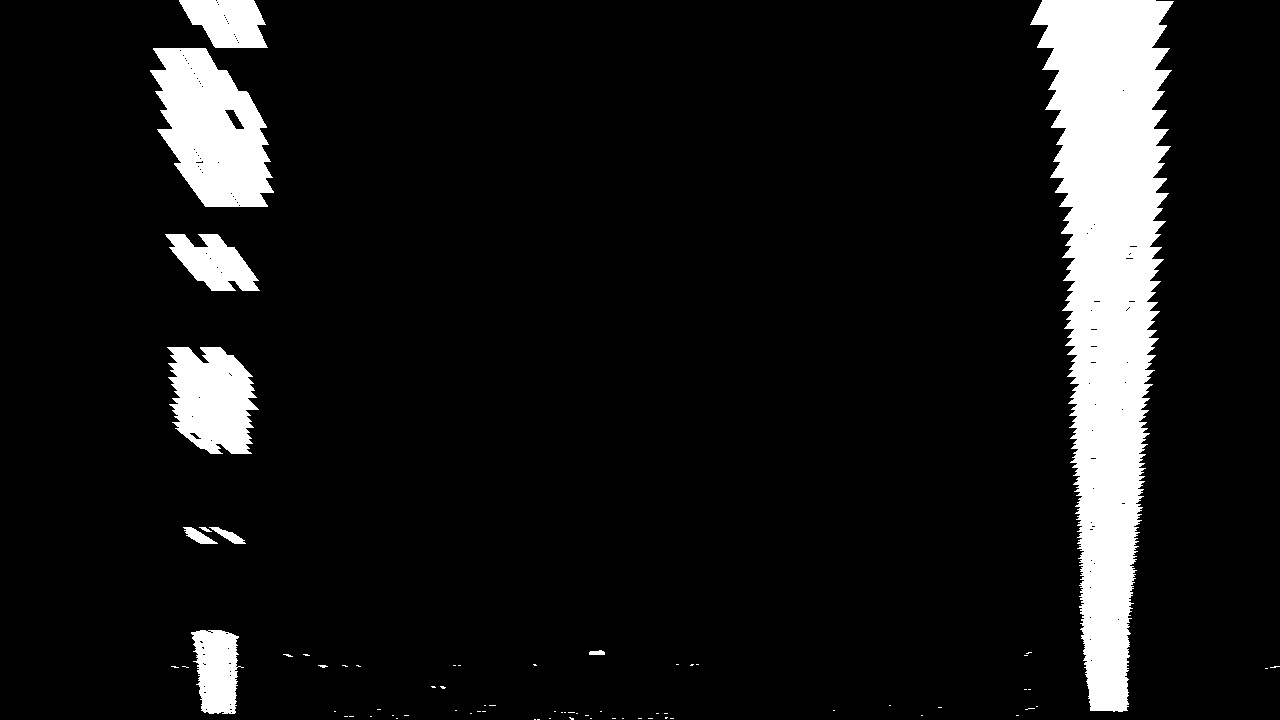
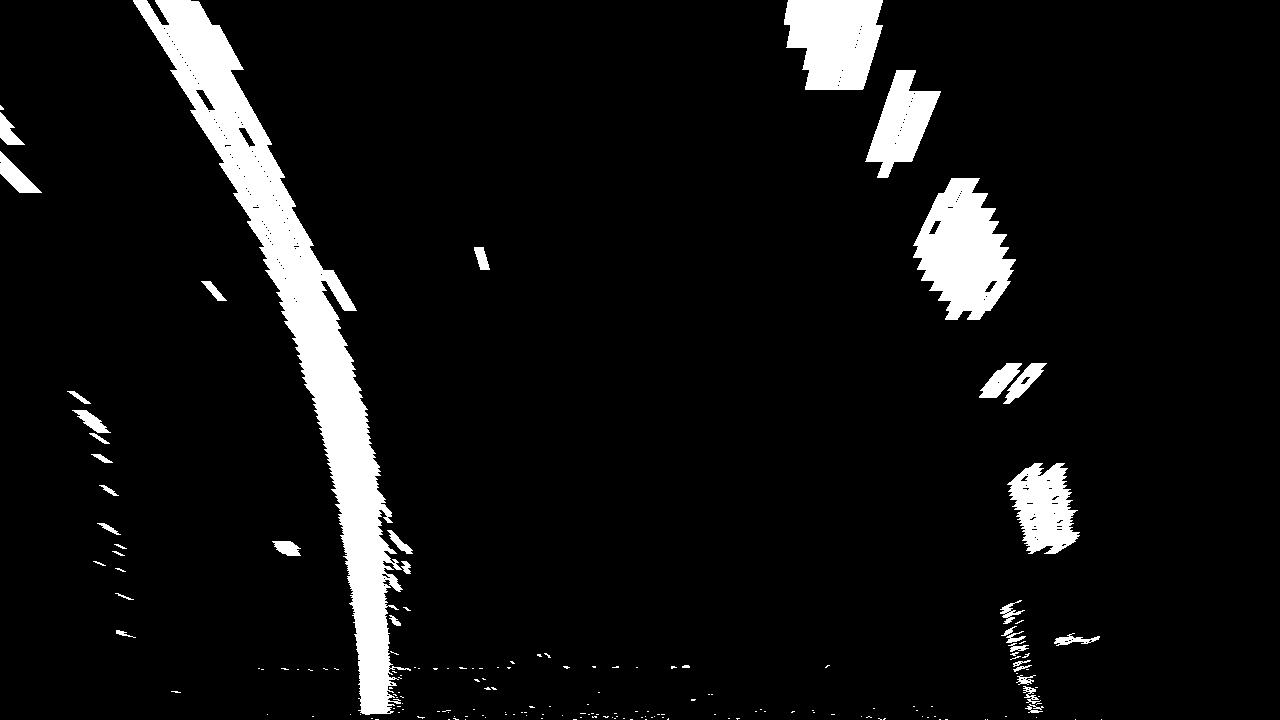
add initial curvature finding script

diff --git a/finding_curvature.py b/finding_curvature.py
@@ -1,0 +1,88 @@
+import numpy as np
+import matplotlib.pyplot as plt
+import matplotlib.image as mpimg
+import glob
+import cv2
+
+# Read in a thresholded image
+warped = mpimg.imread('output_images/perspective_transform_applied.jpg')
+# window settings
+window_width = 50
+window_height = 80 # Break image into 9 vertical layers since image height is 720
+margin = 100 # How much to slide left and right for searching
+
+def window_mask(width, height, img_ref, center,level):
+    output = np.zeros_like(img_ref)
+    output[int(img_ref.shape[0]-(level+1)*height):int(img_ref.shape[0]-level*height),max(0,int(center-width/2)):min(int(center+width/2),img_ref.shape[1])] = 1
+    return output
+
+def find_window_centroids(image, window_width, window_height, margin):
+    
+    window_centroids = [] # Store the (left,right) window centroid positions per level
+    window = np.ones(window_width) # Create our window template that we will use for convolutions
+    
+    # First find the two starting positions for the left and right lane by using np.sum to get the vertical image slice
+    # and then np.convolve the vertical image slice with the window template
+    
+    # Sum quarter bottom of image to get slice, could use a different ratio
+    l_sum = np.sum(warped[int(3*warped.shape[0]/4):,:int(warped.shape[1]/2)], axis=0)
+    l_center = np.argmax(np.convolve(window,l_sum))-window_width/2
+    r_sum = np.sum(warped[int(3*warped.shape[0]/4):,int(warped.shape[1]/2):], axis=0)
+    r_center = np.argmax(np.convolve(window,r_sum))-window_width/2+int(warped.shape[1]/2)
+    
+    # Add what we found for the first layer
+    window_centroids.append((l_center,r_center))
+    
+    # Go through each layer looking for max pixel locations
+    for level in range(1,(int)(warped.shape[0]/window_height)):
+        # convolve the window into the vertical slice of the image
+        image_layer = np.sum(warped[int(warped.shape[0]-(level+1)*window_height):int(warped.shape[0]-level*window_height),:], axis=0)
+        conv_signal = np.convolve(window, image_layer)
+        # Find the best left centroid by using past left center as a reference
+        # Use window_width/2 as offset because convolution signal reference is at right side of window, not center of window
+        offset = window_width/2
+        l_min_index = int(max(l_center+offset-margin,0))
+        l_max_index = int(min(l_center+offset+margin,warped.shape[1]))
+        l_center = np.argmax(conv_signal[l_min_index:l_max_index])+l_min_index-offset
+        # Find the best right centroid by using past right center as a reference
+        r_min_index = int(max(r_center+offset-margin,0))
+        r_max_index = int(min(r_center+offset+margin,warped.shape[1]))
+        r_center = np.argmax(conv_signal[r_min_index:r_max_index])+r_min_index-offset
+        # Add what we found for that layer
+        window_centroids.append((l_center,r_center))
+
+    return window_centroids
+
+window_centroids = find_window_centroids(warped, window_width, window_height, margin)
+
+# If we found any window centers
+if len(window_centroids) > 0:
+    
+    # Points used to draw all the left and right windows
+    l_points = np.zeros_like(warped)
+    r_points = np.zeros_like(warped)
+    
+    # Go through each level and draw the windows
+    for level in range(0,len(window_centroids)):
+        # Window_mask is a function to draw window areas
+        l_mask = window_mask(window_width,window_height,warped,window_centroids[level][0],level)
+        r_mask = window_mask(window_width,window_height,warped,window_centroids[level][1],level)
+        # Add graphic points from window mask here to total pixels found
+        l_points[(l_points == 255) | ((l_mask == 1) ) ] = 255
+        r_points[(r_points == 255) | ((r_mask == 1) ) ] = 255
+
+    # Draw the results
+    template = np.array(r_points+l_points,np.uint8) # add both left and right window pixels together
+    zero_channel = np.zeros_like(template) # create a zero color channel
+    template = np.array(cv2.merge((zero_channel,template,zero_channel)),np.uint8) # make window pixels green
+    warpage = np.array(cv2.merge((warped,warped,warped)),np.uint8) # making the original road pixels 3 color channels
+    output = cv2.addWeighted(warpage, 1, template, 0.5, 0.0) # overlay the orignal road image with window results
+
+# If no window centers found, just display orginal road image
+else:
+    output = np.array(cv2.merge((warped,warped,warped)),np.uint8)
+
+# Display the final results
+plt.imshow(output)
+plt.title('window fitting results')
+plt.show()

diff --git a/pipeline.py b/pipeline.py
@@ -5,7 +5,7 @@ import matplotlib.pyplot as plt
 from thresholding import thresholding_pipeline, region_of_interest
 
 ### Read test image
-img = cv2.imread('test_images/test1.jpg')
+img = cv2.imread('test_images/test2.jpg')
 #img = cv2.imread('camera_cal/test.jpg')
 
 ### Load camera calibration parameters
